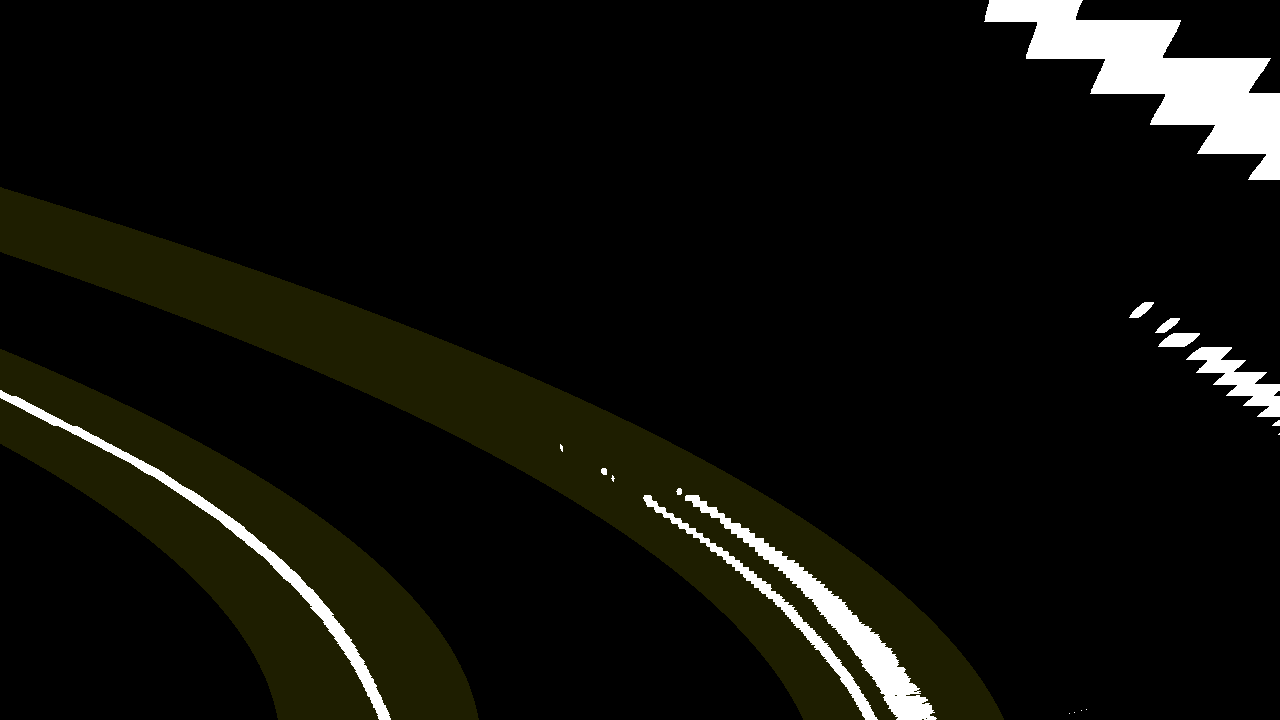
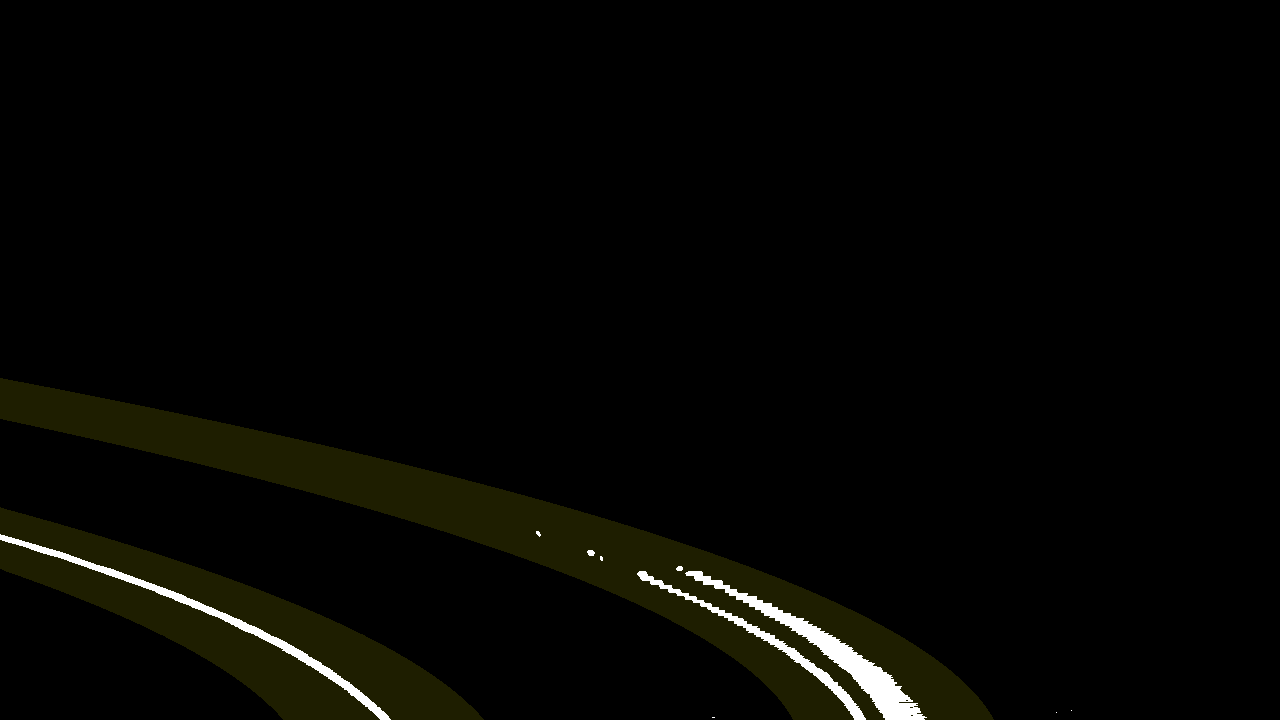
Adjustment for new camera settings

Changed region(s): [[0.0, 0.2444, 0.7812, 1.0], [0.75, 0.0, 1.0, 0.275], [0.875, 0.4278, 1.0, 0.5806]]

diff --git a/BeamADAS_Processor/lco.py b/BeamADAS_Processor/lco.py
@@ -20,10 +20,10 @@ class LaneCurve:
         # Source points taken from images with straight lane lines, these are to become parallel after the warp transform
         # Needs to be updated with accurate lane coordinates
         src = np.array([
-            (408, 530), # bottom-left corner
-            (616, 370), # top-left corner
-            (665, 370), # top-right corner
-            (864, 530) # bottom-right corner
+            (390, 547), # bottom-left corner
+            (627, 371), # top-left corner
+            (654, 371), # top-right corner
+            (903, 547) # bottom-right corner
         ], dtype='f')
         dst = np.array([
             [offset, img_size[1]],             # bottom-left corner

diff --git a/BeamADAS_Processor/cam.py b/BeamADAS_Processor/cam.py
@@ -1,14 +1,14 @@
 import cv2
 import time
 
-from BeamADAS_Processor.lco import LaneCurve
+from lco import LaneCurve
 
 lc = LaneCurve()
 res = []
 
 print(time.time())
 for i in range(0, 30):
-    radius, offset = lc.lane_pipeline(cv2.imread('./BeamADAS_Processor/cam/img' + str(i) + '.png', cv2.IMREAD_GRAYSCALE), i)
+    radius, offset = lc.lane_pipeline(cv2.imread(f'./BeamADAS_Processor/cam/img{i}.png', cv2.IMREAD_GRAYSCALE), i)
     print(str(i) + ':\nestimated radius: ' + str(radius) + '\noffset: ' + str(offset))
     
 print(time.time())

diff --git a/BeamADAS_Processor/lidar.py b/BeamADAS_Processor/lidar.py
@@ -48,7 +48,7 @@ for j in range(0, 5):
             elif i == 1:
                 dbscan = DBSCAN(eps=1, min_samples=15, n_jobs=1, algorithm='ball_tree') # middle
             else:
-                dbscan = DBSCAN(eps=1.5, min_samples=10, n_jobs=1, algorithm='ball_tree') # far
+                dbscan = DBSCAN(eps=1.5, min_samples=8, n_jobs=1, algorithm='ball_tree') # far
 
             clusters = dbscan.fit_predict(segment_data)
             for cluster_id in np.unique(clusters[clusters != -1]):
